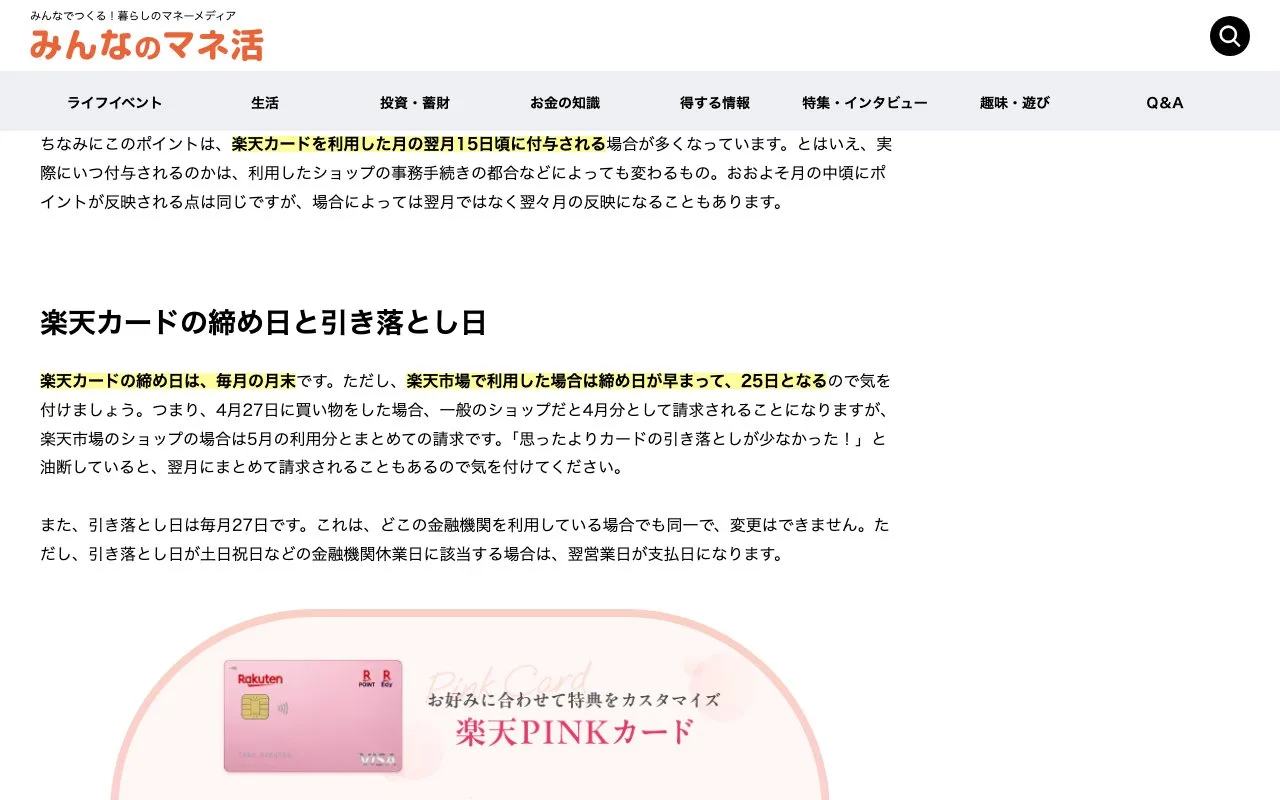
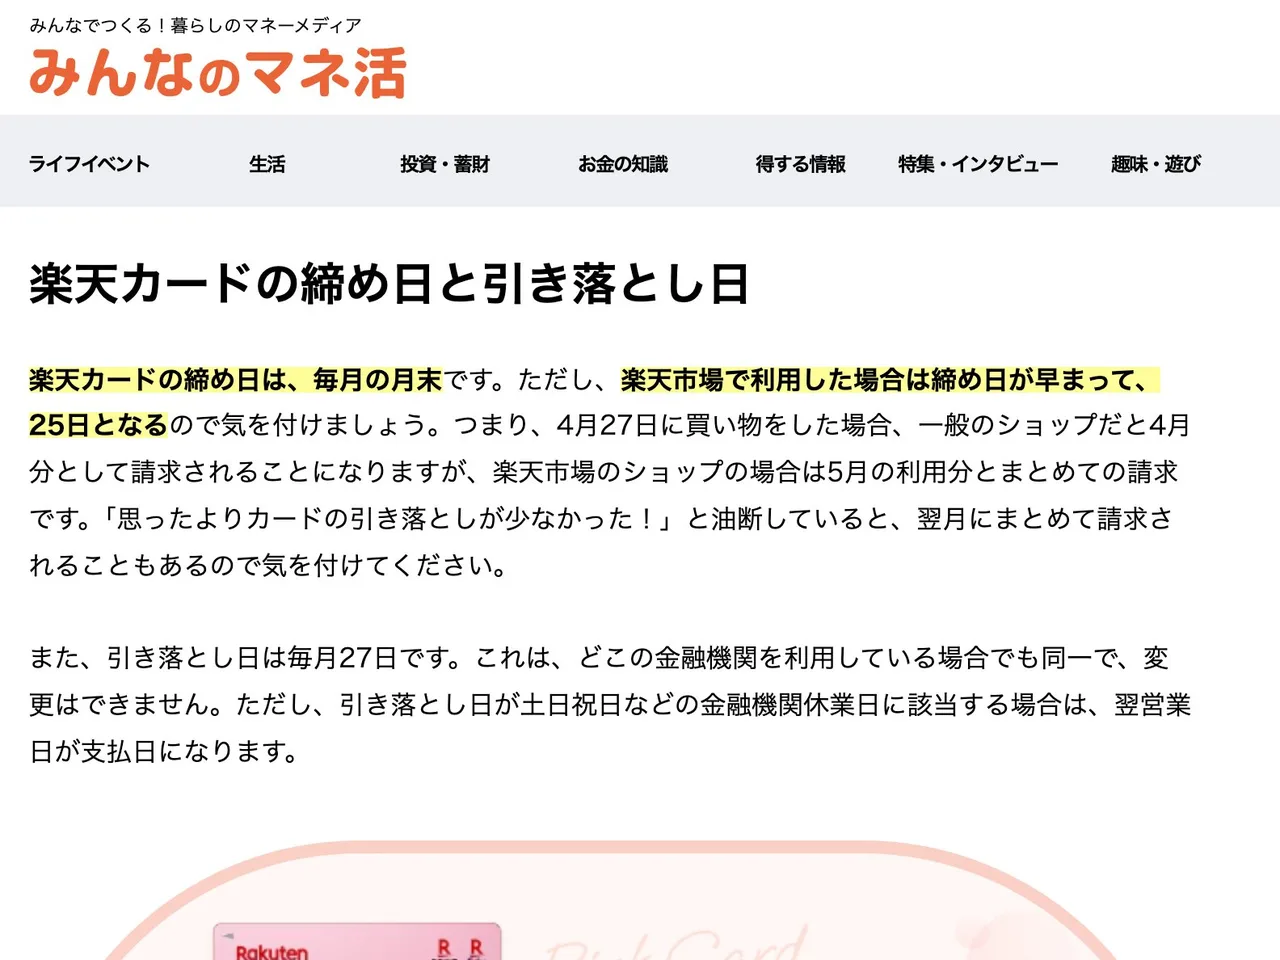
画面写真を4:3の切り出しに撮り直し・画像のタップ拡大を追加

diff --git a/money/tsushin-mnp-yarikata/index.html b/money/tsushin-mnp-yarikata/index.html
@@ -18,12 +18,12 @@
 <p>MNP（Mobile Number Portability）とは、携帯電話・PHSの利用者が携帯会社を変更した場合に、電話番号はそのままで変更後の携帯会社のサービスを利用できる仕組みです。<strong>契約している携帯会社を変更しても電話番号が変わらないので、新たに電話番号を周知する必要がありません。</strong>携帯会社同士の競争が促進されるため、MNPを利用しない人にもサービス向上が期待できるとされています。</p>
 <h2 id="h2"><span>02</span>手続き方法は2つ：ワンストップ方式とツーストップ方式</h2>
 <p>MNPの手続き方法には、ワンストップ方式とツーストップ方式があります。</p>
-<figure class="fig"><img src="soumu_mnp.webp" width="1280" height="800" alt="MNPのワンストップ方式の仕組み" loading="lazy"><figcaption>MNPのワンストップ方式の仕組み<small>出典: 総務省「携帯電話・PHSの番号ポータビリティ（MNP）」（2026年11月21日取得）</small></figcaption></figure>
+<figure class="fig"><img src="soumu_mnp.webp" width="1280" height="960" alt="MNPのワンストップ方式の仕組み" loading="lazy"><figcaption>MNPのワンストップ方式の仕組み<small>出典: 総務省「携帯電話・PHSの番号ポータビリティ（MNP）」（2026年11月21日取得）</small></figcaption></figure>
 <p>ワンストップ方式は、令和5年<b class="d">5月24日</b>から始まった方法です。移転先の携帯会社のウェブサイトで契約を申し込むと、自動的に今の携帯会社のサイトに移り、マイページなどにログインして解約の説明を受けます。解約が確認できると、再び移転先のサイトに戻って契約を進めます。<strong>契約が完了して回線が切り替わると、今の携帯会社との契約は自動で解約されます。</strong></p>
 <p>ツーストップ方式は従来からの方法です。今の携帯会社にMNP予約番号の発行を申請し、説明を受けて予約番号を受け取ります。その番号を持って新しい携帯会社に新規契約を申し込み、手続きが終わると完了です。</p>
 <section class="ads"><aside class="ad ad-main" style="--ad:#BF0000" aria-label="広告"><p class="ad-tag">広告・紹介リンク</p><div class="ad-in"><div class="ad-pic"><img src="../../img/ads/rakuten_card.webp" width="468" height="296" alt="楽天カードの公式画像" loading="lazy"></div><div class="ad-txt"><p class="ad-brand">楽天カード</p><p class="ad-h"><small>新規入会とご利用で</small><b>最大<span>11,000</span>ポイント</b></p><p class="ad-until">11月30日（月）10:00 まで</p><ul><li>年会費は永年無料</li><li>初めて楽天カードを申し込む方が対象</li><li>ポイントの進呈には条件があります</li></ul><div class="ad-btns"><a class="ad-btn" href="https://r10.to/hYuSct?openExternalBrowser=1" rel="sponsored nofollow noopener" target="_blank">紹介ページで条件を見る</a></div></div></div><p class="ad-note">※ 2026/11/21 時点の内容です。条件・期間は変わることがあります。申込みの前にリンク先の公式の案内を確かめてください。</p></aside></section><h2 id="h3"><span>03</span>乗り換えにかかる費用</h2>
 <div class="tbl"><table><thead><tr><th>費用</th><th>金額</th></tr></thead><tbody><tr><th>MNP転出手数料（ウェブ申込み）</th><td>無料</td></tr><tr><th>MNP転出手数料（電話・店舗）</th><td>1,100円以下の場合あり</td></tr><tr><th>SIMロック解除手数料（ウェブ）</th><td>無料</td></tr><tr><th>SIMロック解除手数料（電話・店舗）</th><td>3,300円かかる場合が多い</td></tr><tr><th>乗換え先の契約事務手数料・SIMカード代金</th><td>概ね3,300円前後</td></tr></tbody></table></div>
-<figure class="fig"><img src="soumu_norikae.webp" width="1280" height="800" alt="乗換え元に支払う費用、MNP転出手数料とSIMロック解除手数料" loading="lazy"><figcaption>乗換え元に支払う費用、MNP転出手数料とSIMロック解除手数料<small>出典: 総務省「携帯電話ポータルサイト」（2026年11月21日取得）</small></figcaption></figure>
+<figure class="fig"><img src="soumu_norikae.webp" width="1280" height="960" alt="乗換え元に支払う費用、MNP転出手数料とSIMロック解除手数料" loading="lazy"><figcaption>乗換え元に支払う費用、MNP転出手数料とSIMロック解除手数料<small>出典: 総務省「携帯電話ポータルサイト」（2026年11月21日取得）</small></figcaption></figure>
 <p><strong>MNP転出手数料は、令和3年4月1日の制度改正で原則無料になりました。</strong>ただしウェブでの申込みが無料で、電話や店舗では手数料がかかる場合があります。2021年10月以降に発売されたスマートフォンは原則SIMロックが廃止されていますが、それより前に発売された端末で今もSIMロックがかかっている場合は、解除の申込みが必要です。契約期間が決まっているプランを途中で解約すると、違約金が発生することもあります。</p>
 <h2 id="h4"><span>04</span>乗り換えの手順（9ステップ）</h2>
 <ol class="steps"><li>現在の利用状況を確認する（データ通信量・通話料・オプション・家族割などの詳細を確認する）</li><li>乗換え候補を見つける（自分の使い方に合った携帯ブランド・料金プランを探す）</li><li>乗換え後の料金と、現在の料金を比較する（家族割や固定回線のセット割も含めて比較する）</li><li>端末をそのまま使うか、新しい端末を購入するか決める</li><li>乗換え元に電話番号持ち運び（MNP）予約番号等を申し込む</li><li>乗換え先で契約を申込み、乗換え手順を確認する</li><li>乗換え先で使用する端末とSIMを準備する</li><li>回線の切り替え（短い場合は数分で完了する）</li><li>乗換え先の契約完了（回線の切り替え完了と同時に、今までの契約が解除される）</li></ol>

diff --git a/money/amazon-dpay-100percent-20261121/index.html b/money/amazon-dpay-100percent-20261121/index.html
@@ -18,12 +18,12 @@
 <p>このキャンペーンで注意したいのは、エントリーできる期間と、お買物が対象になる期間がズレていることです。</p>
 <div class="tbl"><table><thead><tr><th>区分</th><th>期間</th></tr></thead><tbody><tr><th>エントリー期間</th><td>2026年11月19日(木)10:00〜12月7日(月)23:59</td></tr><tr><th>お買物期間</th><td>2026年11月27日(金)0:00〜12月7日(月)23:59</td></tr></tbody></table></div>
 <p>エントリーは<b class="d">11月19日</b>からすでに始まっていますが、<strong>d払いで買い物をしても対象として数えられるのは11月27日0:00以降</strong>です。公式規約には「キャンペーン期間内であれば、お買物後のエントリーも有効となります」ともあるので、エントリーを忘れていても<b class="d">12月7日23:59</b>までなら間に合います。</p>
-<figure class="fig"><img src="cta.webp" width="1280" height="800" alt="エントリー期間・お買物期間と注意事項の画面" loading="lazy"><figcaption>エントリー期間・お買物期間と注意事項の画面<small>出典: NTTドコモ公式キャンペーンページ（2026年11月21日取得）</small></figcaption></figure>
+<figure class="fig"><img src="cta.webp" width="1280" height="961" alt="エントリーのボタンと注意事項の画面" loading="lazy"><figcaption>エントリーのボタンと注意事項の画面<small>出典: NTTドコモ公式キャンペーンページ（2026年11月21日取得）</small></figcaption></figure>
 <h2 id="h2"><span>02</span>還元の中身と当選確率100倍の条件</h2>
 <p>対象条件(エントリー完了・d払いでの買物・dポイントクラブ会員)をすべて満たした人の中から、抽選で5,000名に、キャンペーン期間中のd払い利用総額の<b class="n">100%</b>がdポイント(期間・用途限定)として進呈されます。進呈上限は<b class="n">5,000ポイント</b>です。</p>
 <p>公式規約の例では、利用総額<b class="n">5,000円</b>(dポイント利用分<b class="n">0円</b>)の場合、通常ポイント25pt+キャンペーンポイント5,000pt=合計5,025ptとされています。計算すると、<strong>進呈上限の5,000ptに届くのは利用総額5,000円のときで、それを超えて使っても上乗せされるキャンペーンポイントは5,000ptのまま増えません</strong>(通常ポイントだけは利用額に応じて増えます)。</p>
 <p>また、2026年<b class="d">11月16日</b>23:59時点でAmazonでのd払い利用履歴がないか、2026年<b class="d">10月1日</b>〜<b class="d">11月16日</b>の間に利用履歴がない人は、当選確率が<b class="n">100倍</b>になります。</p>
-<figure class="fig"><img src="top.webp" width="1280" height="800" alt="Amazon×d払いのキャンペーンバナー" loading="lazy"><figcaption>Amazon×d払いのキャンペーンバナー<small>出典: NTTドコモ公式キャンペーンページ（2026年11月21日取得）</small></figcaption></figure>
+<figure class="fig"><img src="top.webp" width="1280" height="960" alt="Amazon×d払いのキャンペーンバナー" loading="lazy"><figcaption>Amazon×d払いのキャンペーンバナー<small>出典: NTTドコモ公式キャンペーンページ（2026年11月21日取得）</small></figcaption></figure>
 <section class="ads"><aside class="ad ad-main" style="--ad:#BF0000" aria-label="広告"><p class="ad-tag">広告・紹介リンク</p><div class="ad-in"><div class="ad-pic"><img src="../../img/ads/rakuten_card.webp" width="468" height="296" alt="楽天カードの公式画像" loading="lazy"></div><div class="ad-txt"><p class="ad-brand">楽天カード</p><p class="ad-h"><small>新規入会とご利用で</small><b>最大<span>11,000</span>ポイント</b></p><p class="ad-until">11月30日（月）10:00 まで</p><ul><li>年会費は永年無料</li><li>初めて楽天カードを申し込む方が対象</li><li>ポイントの進呈には条件があります</li></ul><div class="ad-btns"><a class="ad-btn" href="https://r10.to/hYuSct?openExternalBrowser=1" rel="sponsored nofollow noopener" target="_blank">紹介ページで条件を見る</a></div></div></div><p class="ad-note">※ 2026/11/21 時点の内容です。条件・期間は変わることがあります。申込みの前にリンク先の公式の案内を確かめてください。</p></aside></section><h2 id="h3"><span>03</span>対象外・注意点</h2>
 <blockquote class="box warn"><b class="tag">注意</b>支払い方法は電話料金合算払いのみが対象です。クレジットカード払いでは対象になりません。</blockquote>
 <ul><li>Amazonギフトカードなど、一部d払いが利用できない商品の購入は対象外です。</li><li>注文手続きが完了しただけでは対象になりません。商品の発送手配が完了して、ドコモに支払い情報が到着した時点で完了扱いになります。</li><li>注文をキャンセルした場合は対象外です。</li><li>エントリーにはspモードまたはahamoの契約と、dポイントクラブ会員であることが必要です。</li><li>同じキャンペーン期間中にドコモの他の懸賞へ重複して当選できない場合があります。</li></ul>

diff --git a/money/furusato-nenmatsu-yarukoto-2026/index.html b/money/furusato-nenmatsu-yarukoto-2026/index.html
@@ -17,11 +17,11 @@
 <h2 id="h1"><span>01</span>年内の締切は12月31日23時59分</h2>
 <p>ふるさと納税は、毎年<b class="d">1月1日</b>から<b class="d">12月31日</b>までが寄付の対象期間です。<strong>2026年分として税金の控除を受けるには、2026年12月31日23時59分までに寄付金の決済を完了する必要があります。</strong></p>
 <div class="tbl"><table><thead><tr><th>手続き</th><th>期限</th></tr></thead><tbody><tr><th>寄付（決済）</th><td>2026年12月31日23時59分まで</td></tr><tr><th>ワンストップ特例の申請書</th><td>2027年1月10日必着</td></tr><tr><th>確定申告</th><td>2027年3月15日まで</td></tr></tbody></table></div>
-<figure class="fig"><img src="choice_deadline.webp" width="1280" height="800" alt="ふるさと納税の申込みや控除申請の期限" loading="lazy"><figcaption>ふるさと納税の申込みや控除申請の期限<small>出典: ふるさとチョイス公式「ふるさと納税の申込みや控除申請の期限はいつまで？」（2026年11月21日取得）</small></figcaption></figure>
+<figure class="fig"><img src="choice_deadline.webp" width="1280" height="960" alt="ふるさと納税の申込みや控除申請の期限" loading="lazy"><figcaption>ふるさと納税の申込みや控除申請の期限<small>出典: ふるさとチョイス公式「ふるさと納税の申込みや控除申請の期限はいつまで？」（2026年11月21日取得）</small></figcaption></figure>
 <p>自己負担となる<b class="n">2,000円</b>は、1回ごとの寄付にかかるのではなく、1年間（1月〜12月）の寄付金の合計額に対して必要です。寄付できる自治体の数そのものに制限はありません。</p>
 <h2 id="h2"><span>02</span>ワンストップ特例は、5自治体以内・確定申告が不要な人向け</h2>
 <p>控除を受けるには、原則として確定申告が必要ですが、確定申告の不要な給与所得者等で、寄付先の自治体数が5団体以内であれば、「ふるさと納税ワンストップ特例制度」を使うと確定申告をせずに控除を受けられます。<strong>6団体以上に寄付した場合は、ワンストップ特例は使えず、確定申告が必要です。</strong></p>
-<figure class="fig"><img src="soumu_procedure.webp" width="1280" height="800" alt="ふるさと納税の流れ" loading="lazy"><figcaption>ふるさと納税の流れ<small>出典: 総務省「ふるさと納税のしくみ｜ふるさと納税の流れ」（2026年11月21日取得）</small></figcaption></figure>
+<figure class="fig"><img src="soumu_procedure.webp" width="1280" height="959" alt="ふるさと納税の流れ" loading="lazy"><figcaption>ふるさと納税の流れ<small>出典: 総務省「ふるさと納税のしくみ｜ふるさと納税の流れ」（2026年11月21日取得）</small></figcaption></figure>
 <p>ワンストップ特例を使う場合は、寄付をする際に、申請書を寄付先の自治体に提出します。申請書は自治体によって異なることがあり、令和4年中の寄付からは、一部の自治体でマイナンバーカードを使ったオンライン申請もできます。払込用紙の「申請書の送付を希望します」欄にチェックするだけでは手続きは完了しないので注意してください。</p>
 <blockquote class="box warn"><b class="tag">注意</b>申請後に引っ越しなどで住所が変わった場合は、寄付をした翌年の<b class="d">1月10日</b>までに、寄付先の自治体へ変更届出書を提出する必要があります。</blockquote>
 <section class="ads"><aside class="ad ad-main" style="--ad:#BF0000" aria-label="広告"><p class="ad-tag">広告・紹介リンク</p><div class="ad-in"><div class="ad-pic"><img src="../../img/ads/rakuten_card.webp" width="468" height="296" alt="楽天カードの公式画像" loading="lazy"></div><div class="ad-txt"><p class="ad-brand">楽天カード</p><p class="ad-h"><small>新規入会とご利用で</small><b>最大<span>11,000</span>ポイント</b></p><p class="ad-until">11月30日（月）10:00 まで</p><ul><li>年会費は永年無料</li><li>初めて楽天カードを申し込む方が対象</li><li>ポイントの進呈には条件があります</li></ul><div class="ad-btns"><a class="ad-btn" href="https://r10.to/hYuSct?openExternalBrowser=1" rel="sponsored nofollow noopener" target="_blank">紹介ページで条件を見る</a></div></div></div><p class="ad-note">※ 2026/11/21 時点の内容です。条件・期間は変わることがあります。申込みの前にリンク先の公式の案内を確かめてください。</p></aside></section><h2 id="h3"><span>03</span>ワンストップ特例が使えないとき、使わないときは確定申告</h2>

diff --git a/money/card-shimebi-shiharaibi/index.html b/money/card-shimebi-shiharaibi/index.html
@@ -22,11 +22,11 @@
 <p>支払い日が土日祝日の場合は、翌営業日に引き落とされます。</p>
 <section class="ads"><aside class="ad ad-main" style="--ad:#BF0000" aria-label="広告"><p class="ad-tag">広告・紹介リンク</p><div class="ad-in"><div class="ad-pic"><img src="../../img/ads/rakuten_card.webp" width="468" height="296" alt="楽天カードの公式画像" loading="lazy"></div><div class="ad-txt"><p class="ad-brand">楽天カード</p><p class="ad-h"><small>新規入会とご利用で</small><b>最大<span>11,000</span>ポイント</b></p><p class="ad-until">11月30日（月）10:00 まで</p><ul><li>年会費は永年無料</li><li>初めて楽天カードを申し込む方が対象</li><li>ポイントの進呈には条件があります</li></ul><div class="ad-btns"><a class="ad-btn" href="https://r10.to/hYuSct?openExternalBrowser=1" rel="sponsored nofollow noopener" target="_blank">紹介ページで条件を見る</a></div></div></div><p class="ad-note">※ 2026/11/21 時点の内容です。条件・期間は変わることがあります。申込みの前にリンク先の公式の案内を確かめてください。</p></aside></section><h2 id="h3"><span>03</span>JCBカードは15日締め・翌月10日払いで固定</h2>
 <p>JCBカードは、ショッピング・キャッシングの利用分ともに、毎月15日に締め切り、翌月10日に支払う方式です。<strong>締め日は選べず、常に15日締め・翌月10日払いで固定されています。</strong>前月16日から当月15日までの利用分が、その月の15日に締め切られます。</p>
-<figure class="fig"><img src="jcb.webp" width="1280" height="800" alt="JCBカードの締め日と支払い日について" loading="lazy"><figcaption>JCBカードの締め日と支払い日について<small>出典: JCB公式FAQ「JCBカードの締め日と支払い日について教えてください。」（2026年11月21日取得）</small></figcaption></figure>
+<figure class="fig"><img src="jcb.webp" width="1280" height="961" alt="JCBカードの締め日と支払い日について" loading="lazy"><figcaption>JCBカードの締め日と支払い日について<small>出典: JCB公式FAQ「JCBカードの締め日と支払い日について教えてください。」（2026年11月21日取得）</small></figcaption></figure>
 <p>支払い日が土・日・祝日の場合は、翌営業日になります。この点は三井住友カードと共通です。</p>
 <h2 id="h4"><span>04</span>楽天カードは月末締め・翌月27日払い、楽天市場だけ例外</h2>
 <p>楽天カードは、毎月末日が締め日、翌月27日が支払い日で、どこの金融機関を利用していても同一です。<strong>締め日・引き落とし日を自分で変更することはできません。</strong></p>
-<figure class="fig"><img src="rakuten.webp" width="1280" height="800" alt="楽天カードの締め日と引き落とし日" loading="lazy"><figcaption>楽天カードの締め日と引き落とし日<small>出典: 楽天カード公式「楽天カードの締め日・引き落とし日はいつ？」（2026年11月21日取得）</small></figcaption></figure>
+<figure class="fig"><img src="rakuten.webp" width="1280" height="960" alt="楽天カードの締め日と引き落とし日" loading="lazy"><figcaption>楽天カードの締め日と引き落とし日<small>出典: 楽天カード公式「楽天カードの締め日・引き落とし日はいつ？」（2026年11月21日取得）</small></figcaption></figure>
 <p>ただし楽天市場で利用した場合だけ、締め日が早まって25日になります。たとえば<b class="d">4月27日</b>に一般のショップで買い物をすると4月分として請求されますが、同じ日に楽天市場のショップで買い物をすると、5月分としてまとめて請求されます。引き落とし日が土日祝日などの金融機関休業日にあたる場合は、翌営業日が支払日になります。</p>
 <blockquote class="box warn"><b class="tag">注意</b>確定日は締め日の数日から10日ほどあとです。締め日ぎりぎりの買い物は、集計が間に合わず翌月分として請求されることがあります。</blockquote>
 <h2 id="h5"><span>05</span>3社の違いをまとめると</h2>

diff --git a/app.js b/app.js
@@ -56,3 +56,21 @@ document.querySelectorAll('a.video[data-yt]').forEach(a => {
     a.replaceWith(f);
   });
 });
+
+// 記事の画像をタップで大きく見る（細かい表や画面写真はスマホで読みにくいので）。もう一度タップ・Esc・背景で閉じる
+(() => {
+  const figs = document.querySelectorAll('.a-body .fig img');
+  if (!figs.length || !window.HTMLDialogElement) return;
+  const dlg = document.createElement('dialog');
+  dlg.className = 'zoom';
+  dlg.innerHTML = '<button type="button" aria-label="とじる">×</button><div><img alt=""></div>';
+  document.body.appendChild(dlg);
+  const big = dlg.querySelector('img');
+  dlg.addEventListener('click', () => dlg.close());
+  figs.forEach(im => {
+    im.tabIndex = 0; im.setAttribute('role', 'button'); im.setAttribute('aria-label', (im.alt || '画像') + '（大きく見る）');
+    const open = () => { big.src = im.currentSrc || im.src; big.alt = im.alt; dlg.showModal(); dlg.querySelector('div').scrollTo(0, 0); };
+    im.addEventListener('click', open);
+    im.addEventListener('keydown', e => { if (e.key === 'Enter' || e.key === ' ') { e.preventDefault(); open(); } });
+  });
+})();

diff --git a/style.css b/style.css
@@ -281,3 +281,13 @@ button{font:inherit;color:inherit;background:none;border:0;padding:0;cursor:poin
 
 .list-ads{margin:56px 0}
 .list-ads .wrap{max-width:820px;display:grid;gap:18px}
+
+/* 画像を大きく見る */
+.a-body .fig img{cursor:zoom-in}
+.a-body .fig img:focus-visible{outline:3px solid var(--acc);outline-offset:-3px}
+dialog.zoom{border:0;padding:0;margin:0;width:100vw;height:100dvh;max-width:none;max-height:none;background:rgba(20,12,8,.94);cursor:zoom-out}
+dialog.zoom::backdrop{background:rgba(20,12,8,.94)}
+dialog.zoom div{width:100%;height:100%;overflow:auto;display:grid;place-items:center;-webkit-overflow-scrolling:touch}
+dialog.zoom img{max-width:none;width:max(100vw,min(1100px,180vw));height:auto}
+dialog.zoom button{position:fixed;top:12px;right:12px;z-index:1;width:44px;height:44px;border-radius:50%;border:2px solid #fff;background:#000;color:#fff;font-size:22px;line-height:1;cursor:pointer}
+@media (min-width:900px){dialog.zoom img{width:min(1400px,94vw)}}
